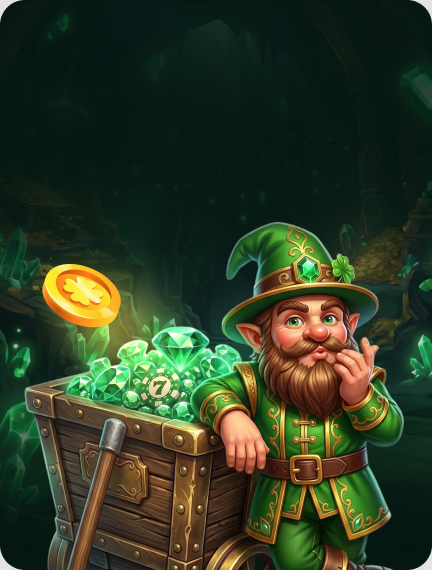
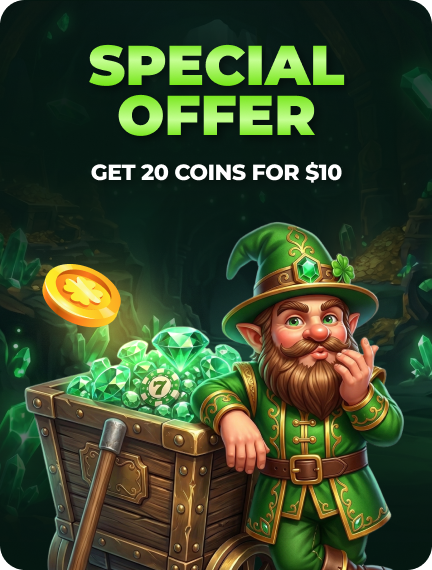
Update the ui

diff --git a/src/components/shared/OfferPopup.jsx b/src/components/shared/OfferPopup.jsx
@@ -43,64 +43,34 @@ export default function OfferPopup() {
                         transition={{ type: 'spring', damping: 25, stiffness: 300 }}
                         className="relative w-full max-w-[500px] mx-4 flex flex-col items-center justify-center"
                     >
-                        <img
-                            src={popupImg}
-                            alt="Special Offer"
-                            className="w-full h-auto max-h-[85vh] object-contain cursor-pointer drop-shadow-[0_10px_40px_rgba(104,226,3,0.2)]"
-                            onClick={handleClaim}
-                        />
-
-                        {/* Special Offer Text positioned overlaying the image */}
-                        <div className="absolute md:top-[4%] top-[4%] sm:top-[12%] left-1/2 -translate-x-1/2 z-10 flex flex-col items-center pointer-events-none w-full px-4">
-                            <h2
-                                className="font-['Montserrat'] font-black text-[45px] sm:text-[56px] text-center uppercase m-0 p-0 -webkit-text-stroke: 1.5px #68E203 drop-shadow-[0_4px_2px_rgba(0,0,0,0.9)] leading-[100%] tracking-[-0.09em]"
-                                style={{
-                                    background: 'linear-gradient(180deg, #68E203 0%, #C6FF94 20%, #68E203 50%, #C6FF94 80%, #68E203 100%)',
-                                    WebkitBackgroundClip: 'text',
-                                    WebkitTextFillColor: 'transparent',
-                                    backgroundClip: 'text',
-                                    color: 'transparent',
-                                    WebkitTextStroke: '1.5px black',
-                                    filter: 'drop-shadow(4px 4px 10px rgba(0, 0, 0, 0.5))',
-                                    width: '100%',
-                                    maxWidth: '275px',
-                                    letterSpacing: '0%',
-                                    lineHeight: '1'
-                                }}
-                            >
-                                Special Offer
-                            </h2>
-                            <p
-                                className="font-['Montserrat'] font-extrabold text-[18px] sm:text-[22px] leading-[0.9] text-center uppercase text-white m-0 p-0 mt-3 sm:mt-5"
-                                style={{
-                                    filter: 'drop-shadow(4px 2px 10px rgba(0, 0, 0, 0.5))',
-                                    letterSpacing: '-2%',
-                                    width: '100%',
-                                    maxWidth: '275px'
-                                }}
-                            >
-                                Get 20 Coins for $10
-                            </p>
-                        </div>
-
-                        <button
-                            onClick={(e) => {
-                                e.stopPropagation();
-                                setIsOpen(false);
-                            }}
-                            className="absolute top-[-5px] right-[0px] lg:top-[-5px] lg:right-[50px] md:top-[15%] md:right-[15%] z-20 w-8 h-8 md:w-10 md:h-10 rounded-full bg-black/80 backdrop-blur-md border border-white/20 flex items-center justify-center text-white hover:bg-[#68E203] hover:text-black hover:border-transparent transition-all shadow-lg cursor-pointer"
-                        >
-                            <X size={18} />
-                        </button>
-
-                        {/* Claim Now button positioned overlaying the image */}
-                        <div className="absolute bottom-[5%] left-1/2 -translate-x-1/2 z-10">
-                            <button
+                        {/* Wrapper exactly matching the image size */}
+                        <div className="relative inline-flex flex-col items-center justify-center">
+                            <img
+                                src={popupImg}
+                                alt="Special Offer"
+                                className="max-w-full w-auto h-auto max-h-[85vh] object-contain cursor-pointer drop-shadow-[0_10px_40px_rgba(104,226,3,0.2)]"
                                 onClick={handleClaim}
-                                className="cursor-pointer inline-flex items-center justify-center h-[36px] md:h-[48px] md:w-[125px] px-6 md:px-8 rounded-[10px] md:rounded-[14px] bg-gradient-to-r from-[#107015] to-[#68E203] text-white font-['Montserrat'] font-bold text-[13px] sm:text-[14px] md:text-[18px] leading-none tracking-[-0.02em] hover:scale-105 transition-all shadow-[0_8px_30px_rgba(104,226,3,0.3)] whitespace-nowrap"
+                            />
+
+                            <button
+                                onClick={(e) => {
+                                    e.stopPropagation();
+                                    setIsOpen(false);
+                                }}
+                                className="absolute top-0 right-0 translate-x-1/3 -translate-y-1/3 z-20 w-8 h-8 md:w-10 md:h-10 rounded-full bg-black/80 backdrop-blur-md border border-white/20 flex items-center justify-center text-white hover:bg-[#68E203] hover:text-black hover:border-transparent transition-all shadow-lg cursor-pointer"
                             >
-                                Claim Now
+                                <X size={18} />
                             </button>
+
+                            {/* Claim Now button positioned overlaying the image */}
+                            <div className="absolute bottom-[5%] left-1/2 -translate-x-1/2 z-10 w-full flex justify-center">
+                                <button
+                                    onClick={handleClaim}
+                                    className="cursor-pointer inline-flex items-center justify-center h-[36px] md:h-[50px] md:w-[140px] px-6 md:px-8 rounded-[10px] md:rounded-[14px] bg-gradient-to-r from-[#107015] to-[#68E203] text-white font-['Montserrat'] font-bold text-[13px] sm:text-[14px] md:text-[16px] leading-none tracking-[-0.02em] hover:scale-105 transition-all shadow-[0_8px_30px_rgba(104,226,3,0.3)] whitespace-nowrap"
+                                >
+                                    Claim Now
+                                </button>
+                            </div>
                         </div>
                     </motion.div>
                 </div>

diff --git a/src/pages/home/ChooseUsSection.jsx b/src/pages/home/ChooseUsSection.jsx
@@ -69,7 +69,13 @@ export default function ChooseUsSection() {
                                             src={c.img}
                                             alt={c.title}
                                             className="absolute pointer-events-none"
-                                            style={{ width: 180, height: 180, left: 53, top: -90, filter: 'drop-shadow(0px 0px 40px rgba(0,0,0,0.25))' }}
+                                            style={{ 
+                                                width: c.title === 'VIP Club' ? 165 : 180, 
+                                                height: c.title === 'VIP Club' ? 165 : 180, 
+                                                left: c.title === 'VIP Club' ? 60.5 : 53, 
+                                                top: c.title === 'VIP Club' ? -82.5 : -90, 
+                                                filter: 'drop-shadow(0px 0px 40px rgba(0,0,0,0.25))' 
+                                            }}
                                             initial={{ y: -6 }}
                                             animate={{ y: 6 }}
                                             transition={{ y: { duration: 3, repeat: Infinity, repeatType: 'reverse', ease: 'easeInOut', delay: i * 0.2 } }}
@@ -106,7 +112,12 @@ export default function ChooseUsSection() {
                                             src={c.img}
                                             alt={c.title}
                                             className="absolute pointer-events-none left-1/2 -translate-x-1/2"
-                                            style={{ width: 90, height: 90, top: -38, filter: 'drop-shadow(0px 4px 20px rgba(0,0,0,0.25))' }}
+                                            style={{ 
+                                                width: c.title === 'VIP Club' ? 75 : 90, 
+                                                height: c.title === 'VIP Club' ? 75 : 90, 
+                                                top: c.title === 'VIP Club' ? -30.5 : -38, 
+                                                filter: 'drop-shadow(0px 4px 20px rgba(0,0,0,0.25))' 
+                                            }}
                                             initial={{ y: -4 }}
                                             animate={{ y: 4 }}
                                             transition={{ y: { duration: 3, repeat: Infinity, repeatType: 'reverse', ease: 'easeInOut', delay: i * 0.2 } }}